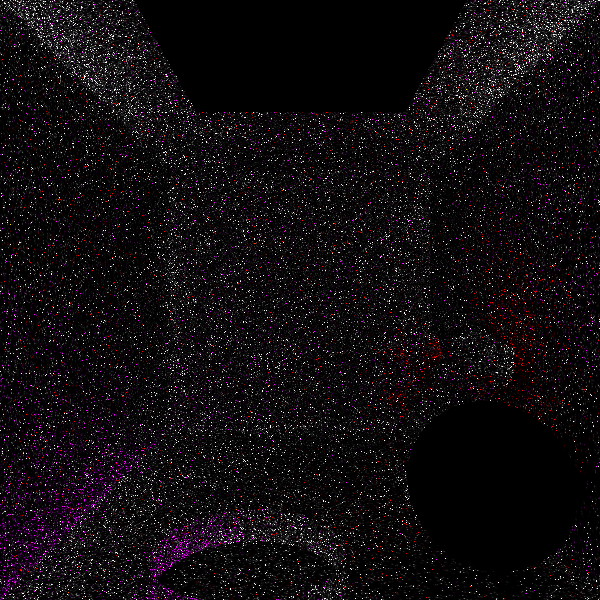
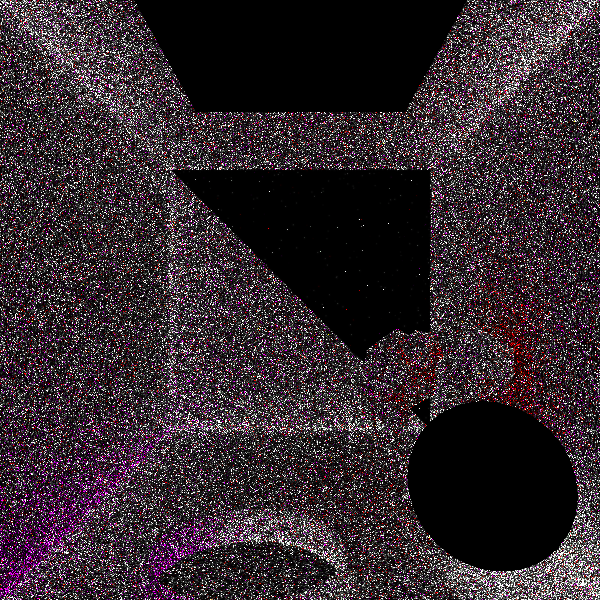
add material to square light

diff --git a/PhotonMapping/SquareLight.cpp b/PhotonMapping/SquareLight.cpp
@@ -3,11 +3,15 @@
 #include "Random.h"
 #define _USE_MATH_DEFINES
 #include <math.h>
+#include <memory>
 
 #include <glm/gtc/random.hpp>
 
 SquareLight::SquareLight(float intensity, unsigned maximumEmittedPhotons, glm::vec3 color, glm::vec3 center, glm::vec3 normal, glm::vec3 v) : Light(intensity, maximumEmittedPhotons, color), center{ center }, normal{ glm::normalize(normal) }, v{ v } {
     u = glm::cross(normal, u);
+
+    std::shared_ptr<Material> material = std::make_shared<Material>(color, color, color, color, 1.f, 1.f, 0.f, 0.f, 0.f);
+    this->material = material;
 }
 
 void SquareLight::createEmbreeMesh(RTCDevice device)

diff --git a/PhotonMapping/PhotonMap.cpp b/PhotonMapping/PhotonMap.cpp
@@ -50,13 +50,6 @@ void Photon::trace(glm::vec3 origin, glm::vec3 direction, glm::vec3 power, int d
         return;
     }
     
-    squareLight = std::dynamic_pointer_cast<SquareLight>(mesh);
-	// No choca con una luz
-	if (squareLight != NULL)
-	{
-        //rebotar sin guardar. Preguntar.
-    }
-    else
     {
         std::shared_ptr<Photon> photon = std::make_shared<Photon>();
         photon->power = power;  
